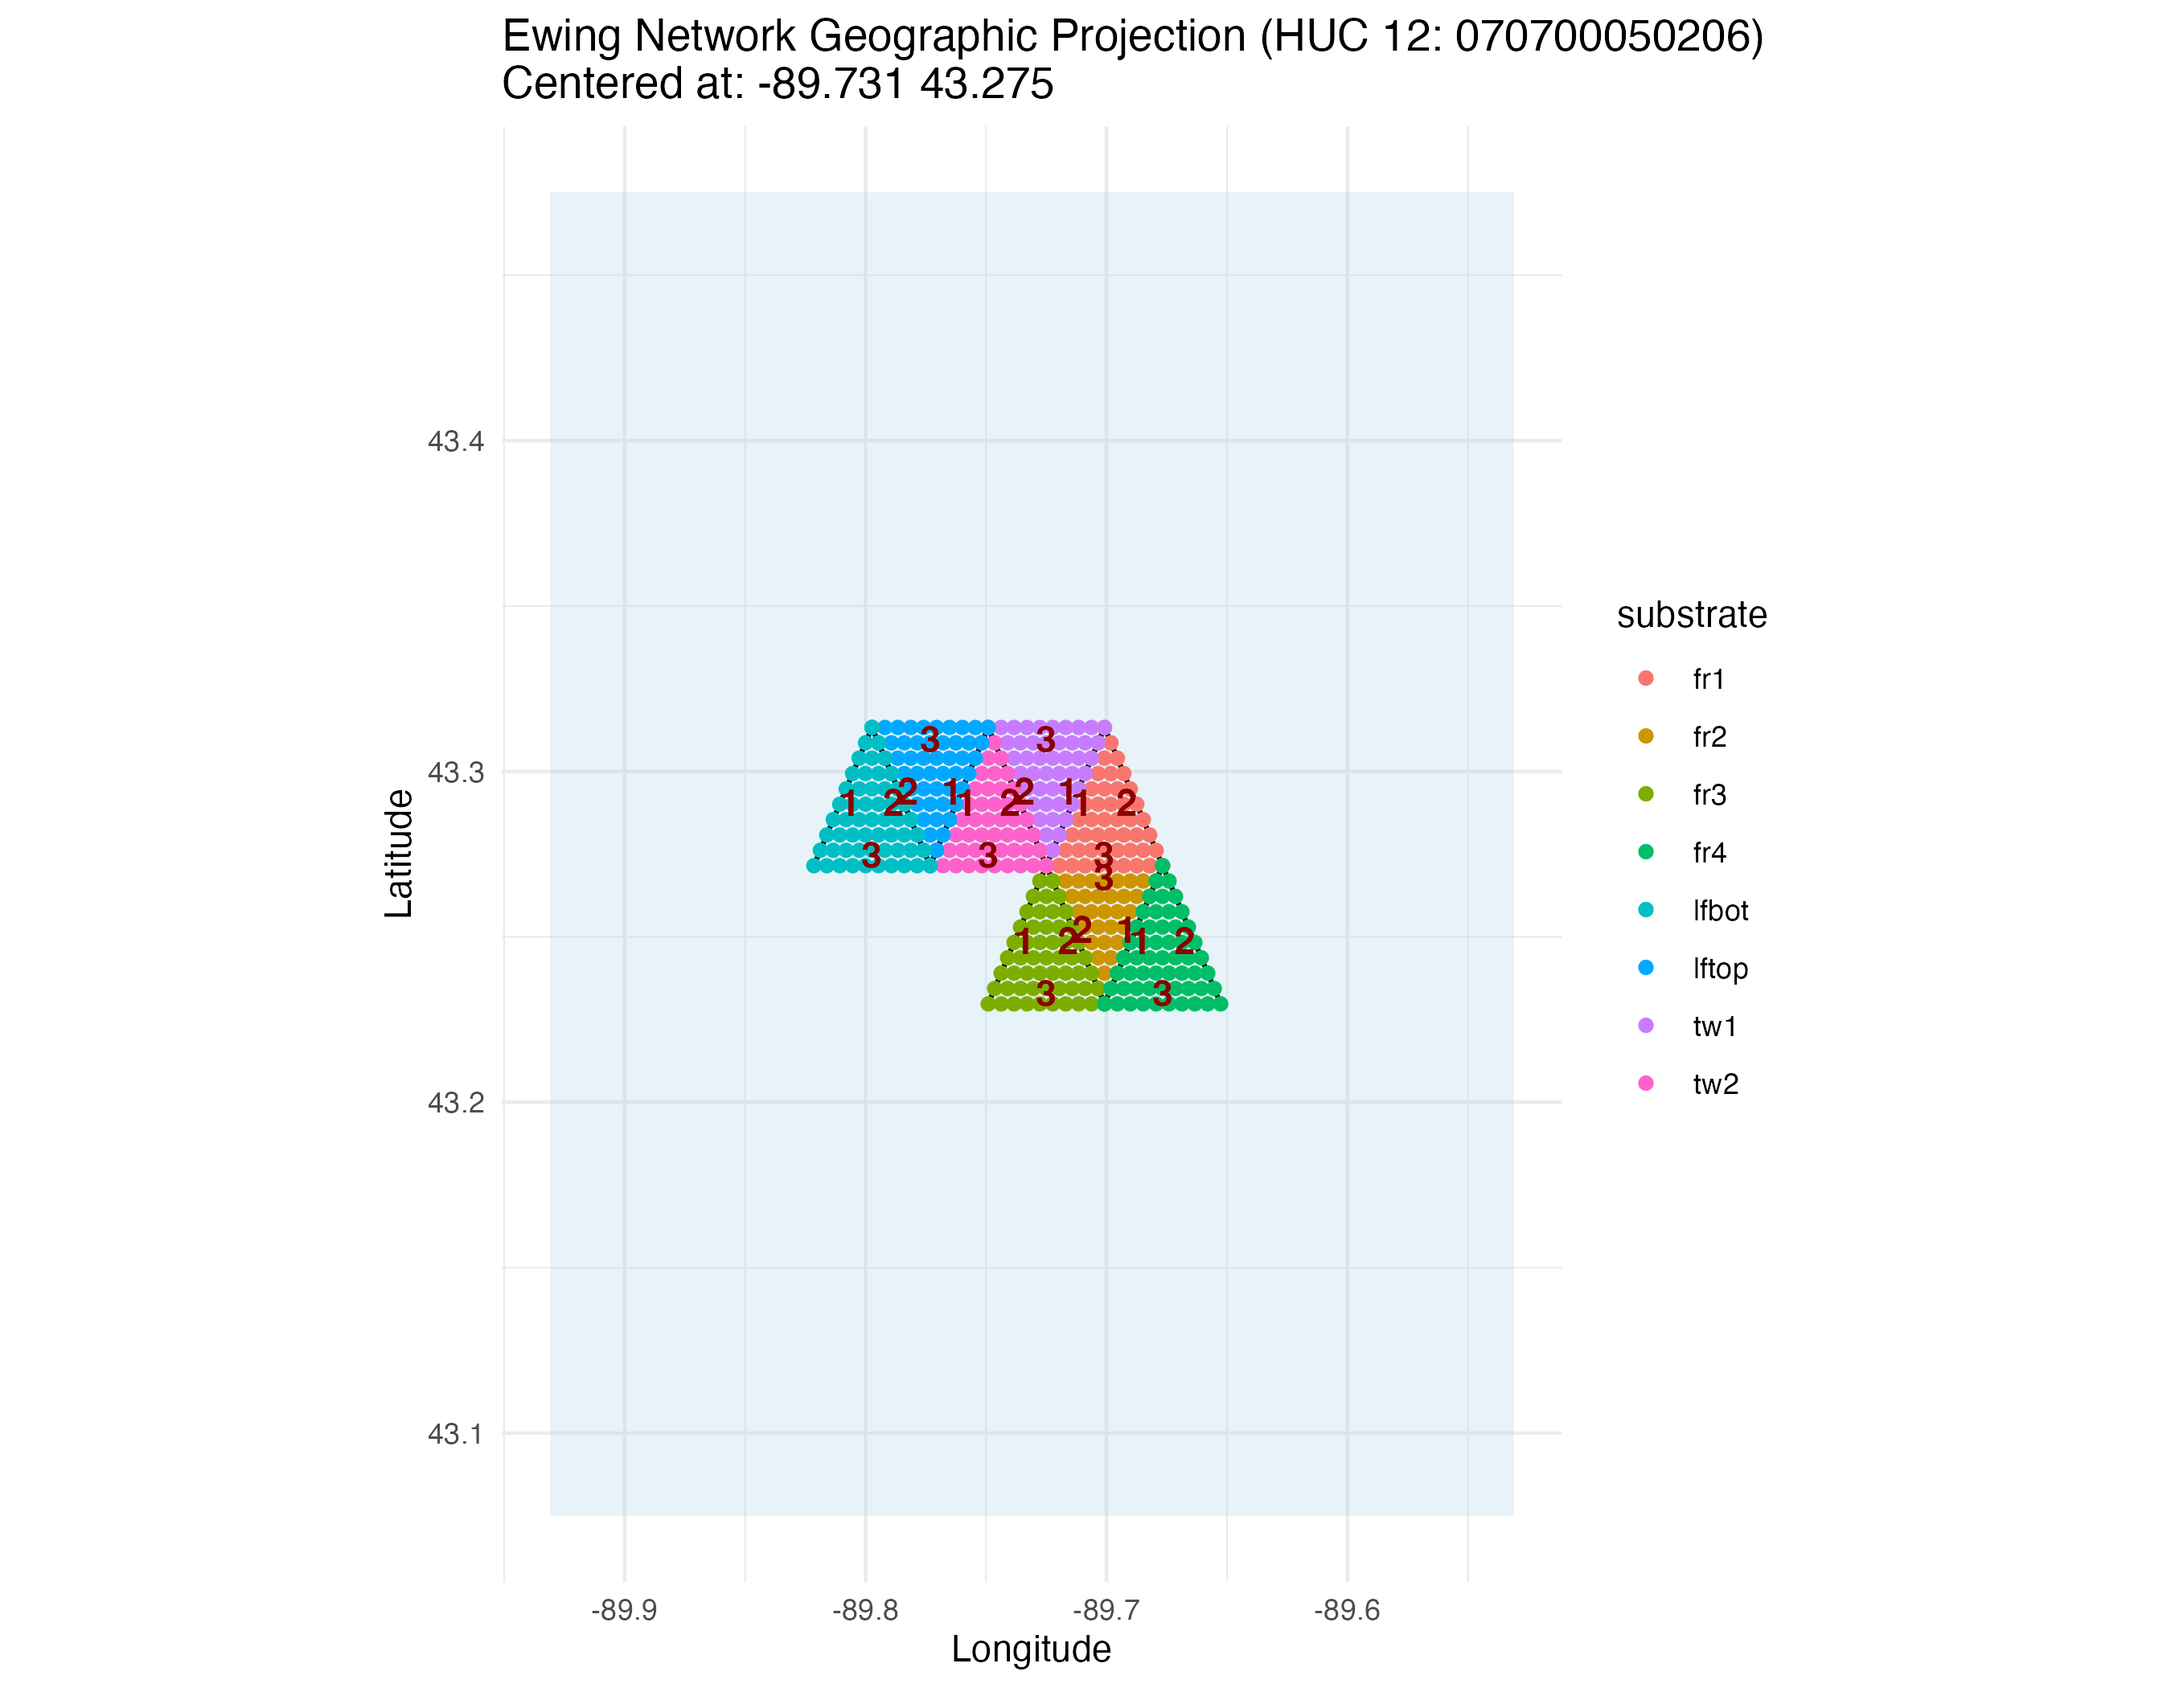
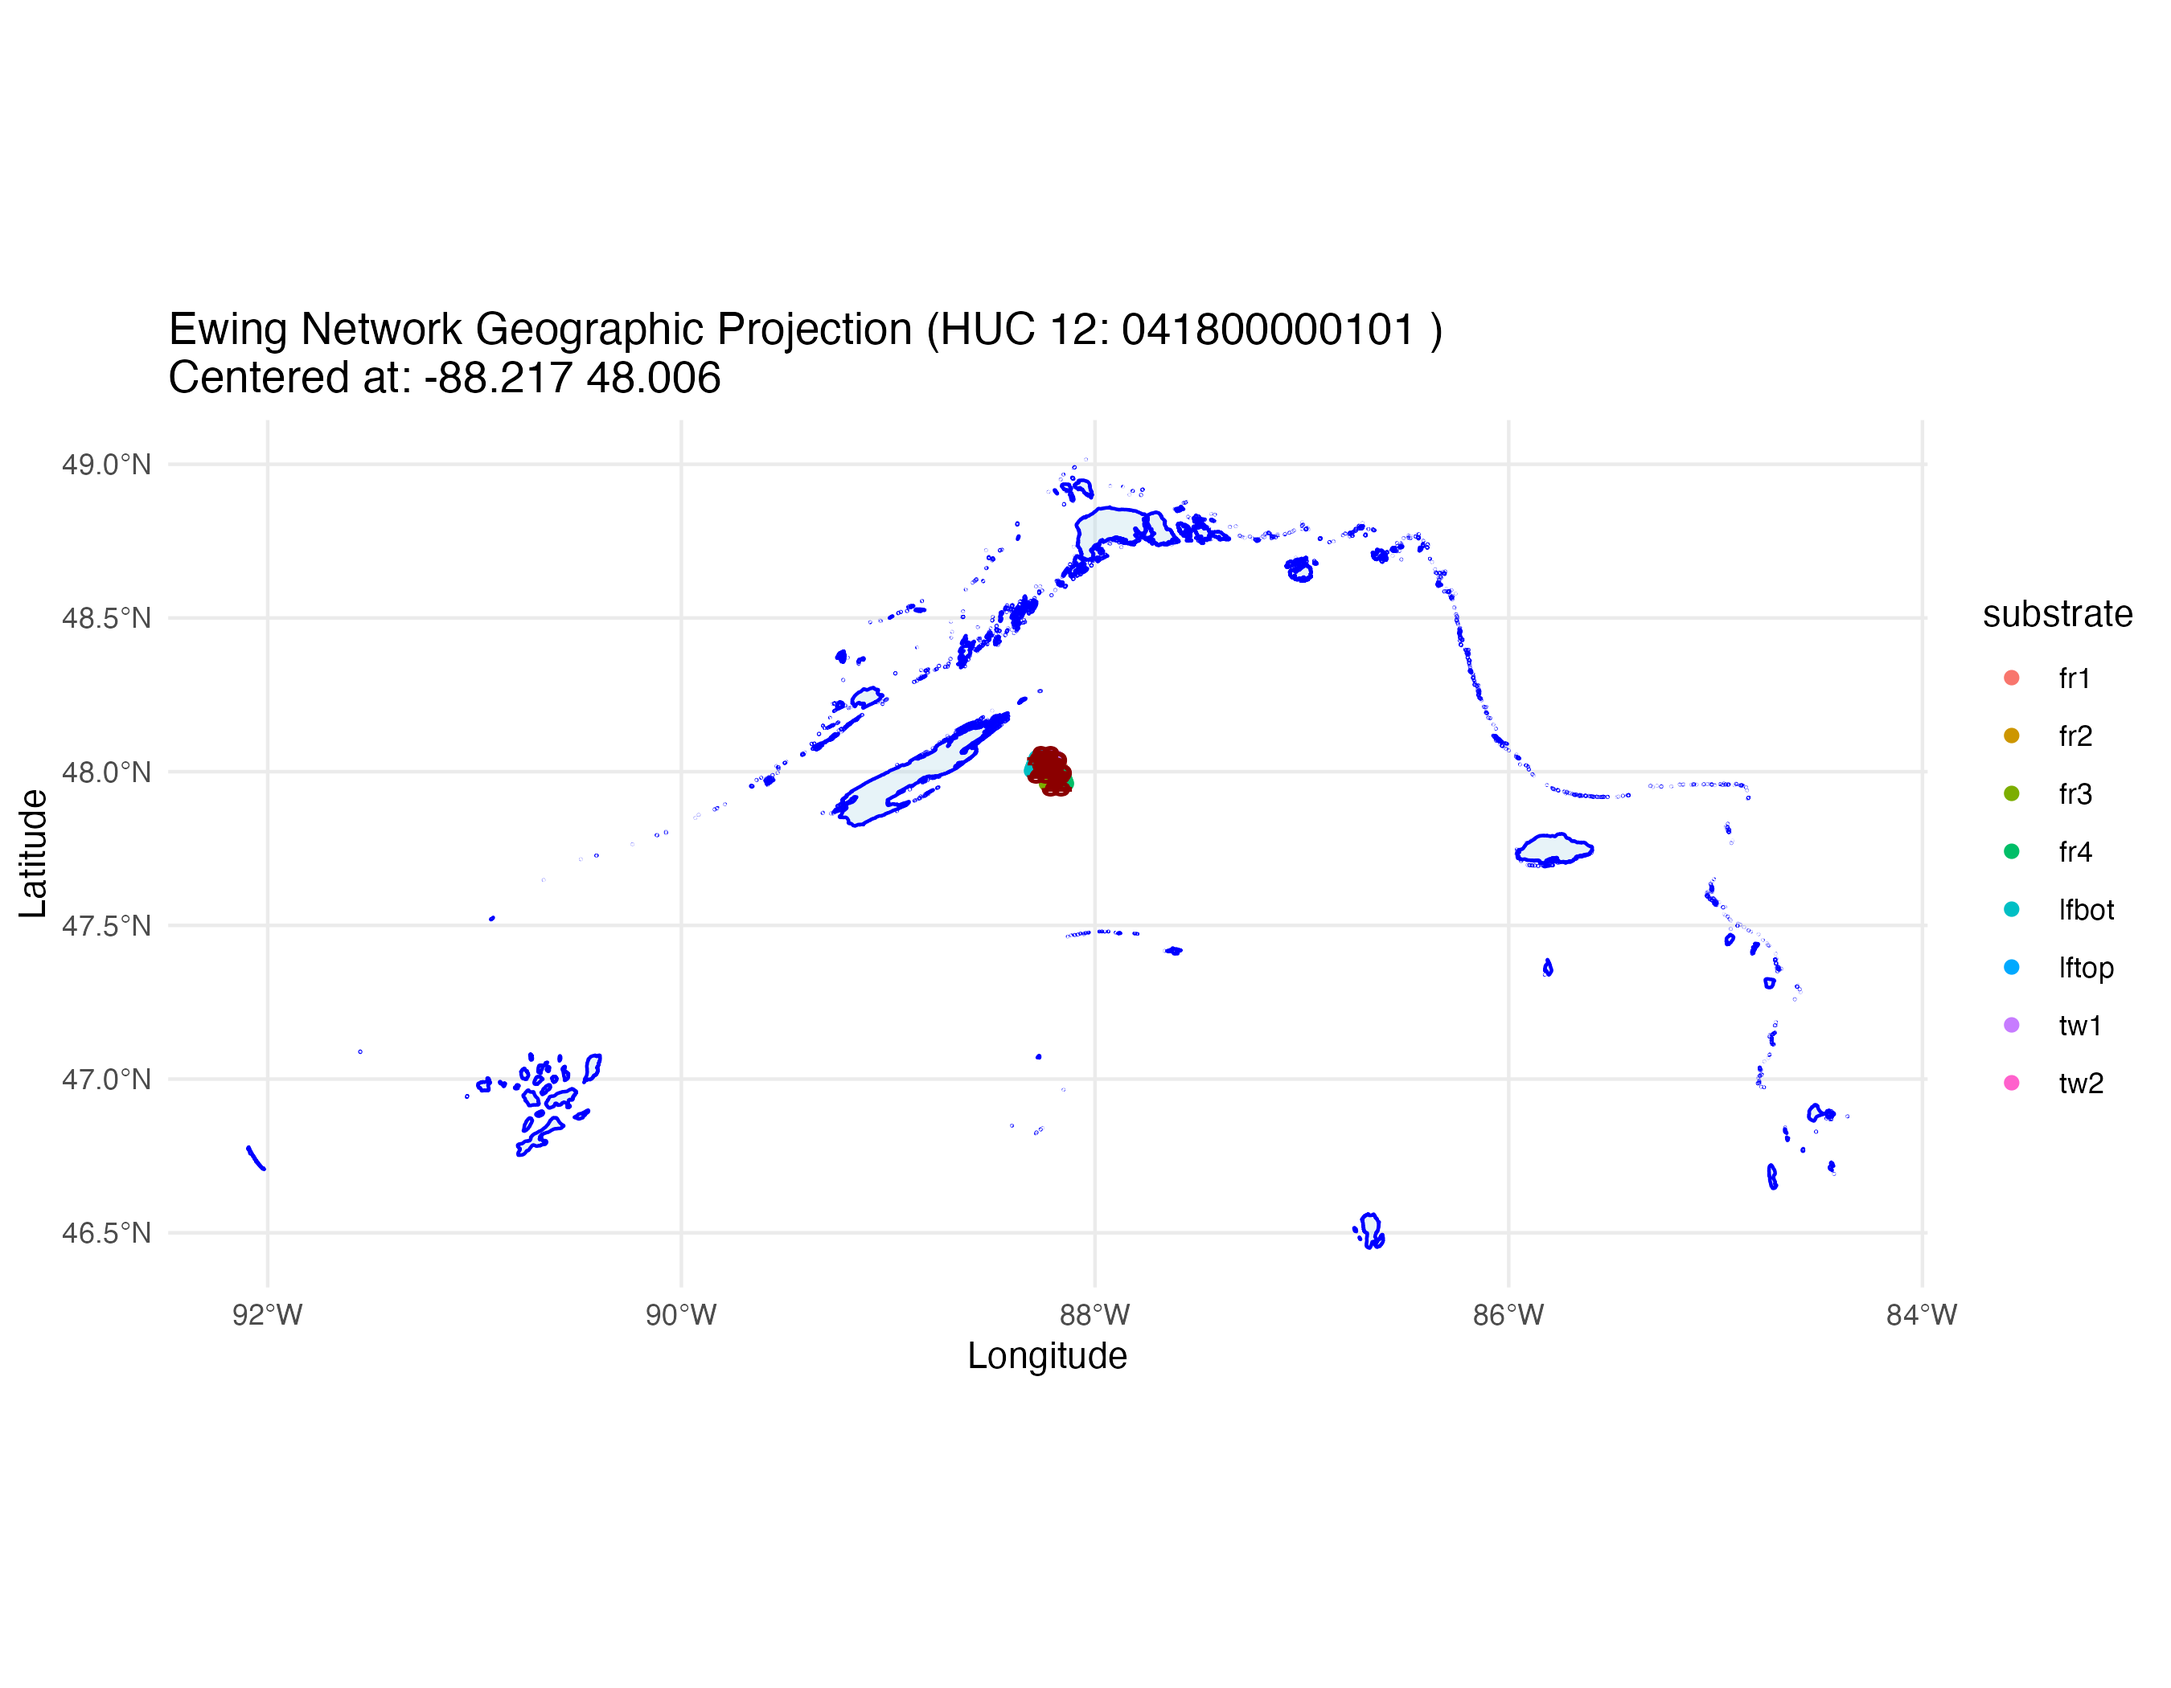
watershed with isle royale

diff --git a/inst/doc/watershed.md b/inst/doc/watershed.md
@@ -2,16 +2,13 @@
 
 ## Prompt
 
-New conversation on watershed triangulation overlay, with walkthrough file being `inst/doc/watershed.md` Here is the CRAFT prompt:
-
-- Context: I have a triangular coordinate system for predator-prey simulations that could be overlaid on the [Watershed Boundary Dataset (HUC 12s)](https://resilience.climate.gov/datasets/esri::watershed-boundary-dataset-huc-12s/about).
-For concreteness, consider HUC12 070700050206, which is the Prairie du Sac Dam-Wisconsin River subwatershed in Wisconsin.
-- Role: Act as an expert R developer and Shiny application designer.
-- Action: Review the `inst/doc/triangle.md` work and the script in `inst/scripts/plant_triangle.R` to do the following:
-  - Find a more elegant way to set up the algebra with tri-coordinate systems. That is, the code requires 3 lines per point set to address a,b,c. What if there was an object class and operations (such as addition) that would simplify operations?
-  - Begin developing ways to overlay the triangular coordinate system on maps based on subwatersheds (HUC12) and finer scale.
-- Format: Provide feedback as tracked changes with explanations
-- Tone: Professional, constructive, and encouraging
+- **Context**: The `ewing` predator-prey simulation uses an abstract tridiagonal coordinate system. This needs to be spatially projected onto real-world geography utilizing the [Watershed Boundary Dataset (HUC 12s)](https://resilience.climate.gov/datasets/esri::watershed-boundary-dataset-huc-12s/about). Our specific target is Isle Royale in Lake Superior (HUC12: `041800000101`).
+- **Role**: Expert R Developer and Spatial Integrator.
+- **Action**: Review prior work (`inst/doc/triangle.md`, `inst/scripts/plant_triangle.R`) to execute two foundational steps:
+  1. **Algebraic Refactoring**: Architect a more elegant, object-oriented S3 methodology to simplify tri-coordinate math (i.e. replacing item-by-item grid manipulations).
+  2. **Subwatershed Overlay pipeline**: Develop actionable scripts (e.g., `inst/scripts/watershed_overlay.R`) to programmatically fetch HUC12 boundaries, calculate geographic centroids, and overlay our abstract triangular networks using standard geographic mapping packages.
+- **Format**: Tracked feedback and architectural outlines.
+- **Tone**: Professional, constructive, and encouraging.
 
 ### HUC References
 
@@ -30,6 +27,7 @@ Here are the tracked changes and design propositions required to elegantly const
 Addressing the `(a, b, c)` coordinate vectors item-by-item is brittle and mathematically verbose. By wrapping coordinates into a standardized `tricoord` S3 class structure in `R/triangle.R`, we can implement operator overloading. This empowers R to apply spatial topology translations natively to data.frames and vectors containing these coordinates utilizing elegant `var1 + var2` syntax!
 
 **Feedback Tracked Details (`inst/scripts/plant_triangle.R`):**
+
 ```diff
   # Apply geometric offset
   o_a <- cfg$offset[1]
@@ -45,18 +43,22 @@ Addressing the `(a, b, c)` coordinate vectors item-by-item is brittle and mathem
 - car_pts <- tri2car(rbind(grid$a, grid$b, grid$c))
 + car_pts <- tri2car(grid)
 ```
+
 *Explanation: We extract the raw scalar math and matrix transpositions into the base class logic, significantly reducing visual noise and the likelihood of matrix dimension errors (which historically occurred with `rbind`/`cbind` mismatches).*
 
 ### 2. Developing Overlay Projections for HUC12 Subwatersheds
 
-To project the tridiagonal substrate network atop HUC12 polygon data (like Prairie du Sac Dam-Wisconsin River `070700050206`), we require a transformation pipeline converting mathematical $(a, b, c)$ bounds securely into the `sf` package'CRS (Coordinate Reference Systems):
+To project the tridiagonal substrate network atop HUC12 polygon data (like Isle Royale `041800000101`), we require a transformation pipeline converting mathematical $(a, b, c)$ bounds securely into the `sf` package's CRS (Coordinate Reference Systems):
 
 > [!TIP]
 > **Suggested Geographic Projection Pipeline:**
-> 1. **Data Acquisition Layer**: Utilize native packages like `nhdplusTools` or `tigris` (e.g. `get_huc12(id = "070700050206")`) or a loaded static `.shp` file to fetch the `MULTIPOLYGON` object representing the watershed bound.
-> 2. **Euclidean Extraction**: Process the abstract substrate interaction grid using `tri2car()`, retrieving abstract $(x, y)$ planar coordinates.
-> 3. **Affine Spatial Tie-Point**: Define an anchor metric. Mathematically locate the centroid of the extracted HUC12 polygon via `sf::st_centroid()`. Map $(x=0, y=0)$ abstract origin strictly to the true $(longitude, latitude)$ of this centroid.
-> 4. **Scale Calibration**: Multiply the planar distance matrix by an appropriate geographic scale multiplier ($S$) effectively translating theoretical simulation units into true physical meters.
+>
+> 1. **Data Acquisition Layer**: Utilize native packages like `nhdplusTools` (e.g., `get_huc(id = "041800000101", type = "huc12")`) to fetch the `MULTIPOLYGON` watershed bound.
+> 2. **Euclidean Extraction**: Process the abstract substrate interaction grid using `tri2car()`, retrieving planar coordinates.
+> 3. **Affine Spatial Tie-Point**: Define an anchor mapping centroid of the extracted HUC12 polygon via `sf::st_centroid()`.
+> 4. **Scale Calibration**: Multiply the planar distance matrix by an appropriate geographic scale multiplier ($S$) effectively translating theoretical simulation units.
 > 5. **Spatial Geometry Overlays**: Render both systems cooperatively into one figure utilizing `ggplot2::geom_sf()`, mapping abstract paths structurally to topological realities.
 
-These abstractions are excellent enhancements targeting both code legibility and spatial applicability for real-world environmental matrices!
+### 3. Implementation of the Geographic Pipeline
+
+The script `inst/scripts/watershed_overlay.R` has been updated to successfully implement this pipeline for the target Isle Royale HUC12. It dynamically acquires the spatial outline via `nhdplusTools::get_huc()`, determines the required `huc_lon` and `huc_lat` from the structural centroid (`sf::st_centroid()`), and maps the tridiagonal simulated data strictly atop the true map utilizing `geom_sf()`, finalizing the mathematical-geospatial integration!
